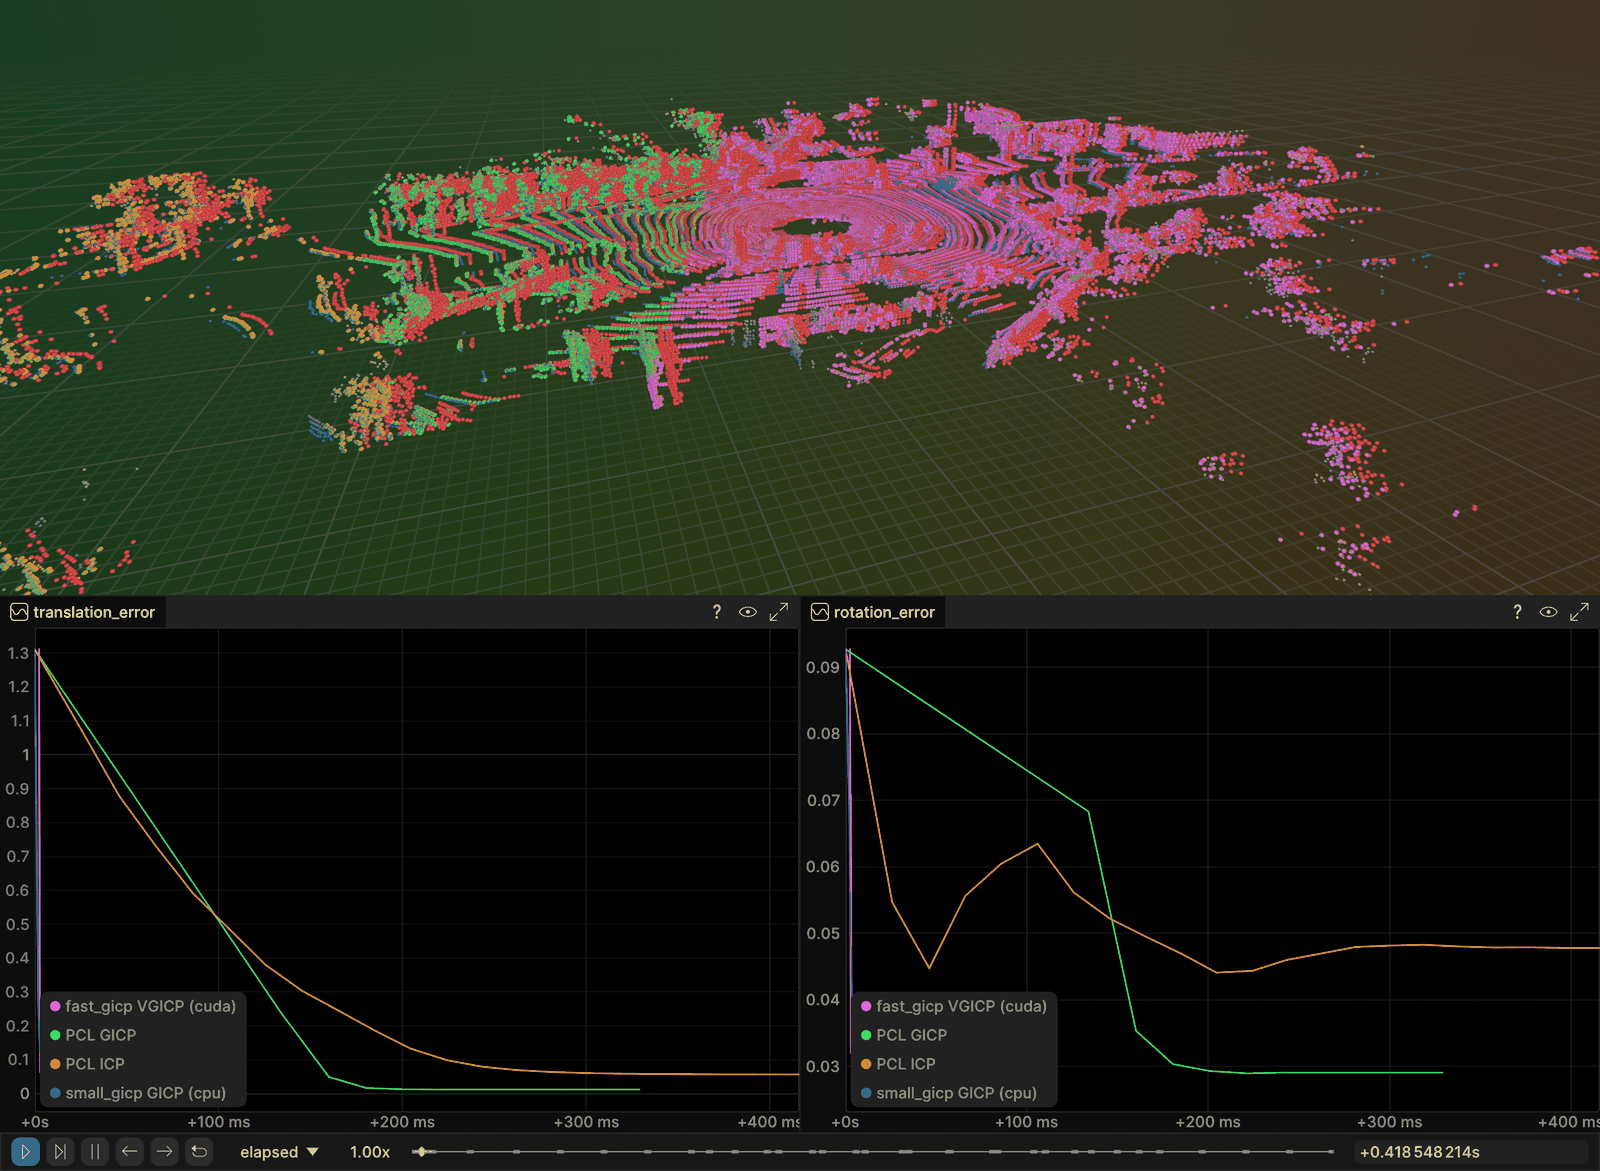
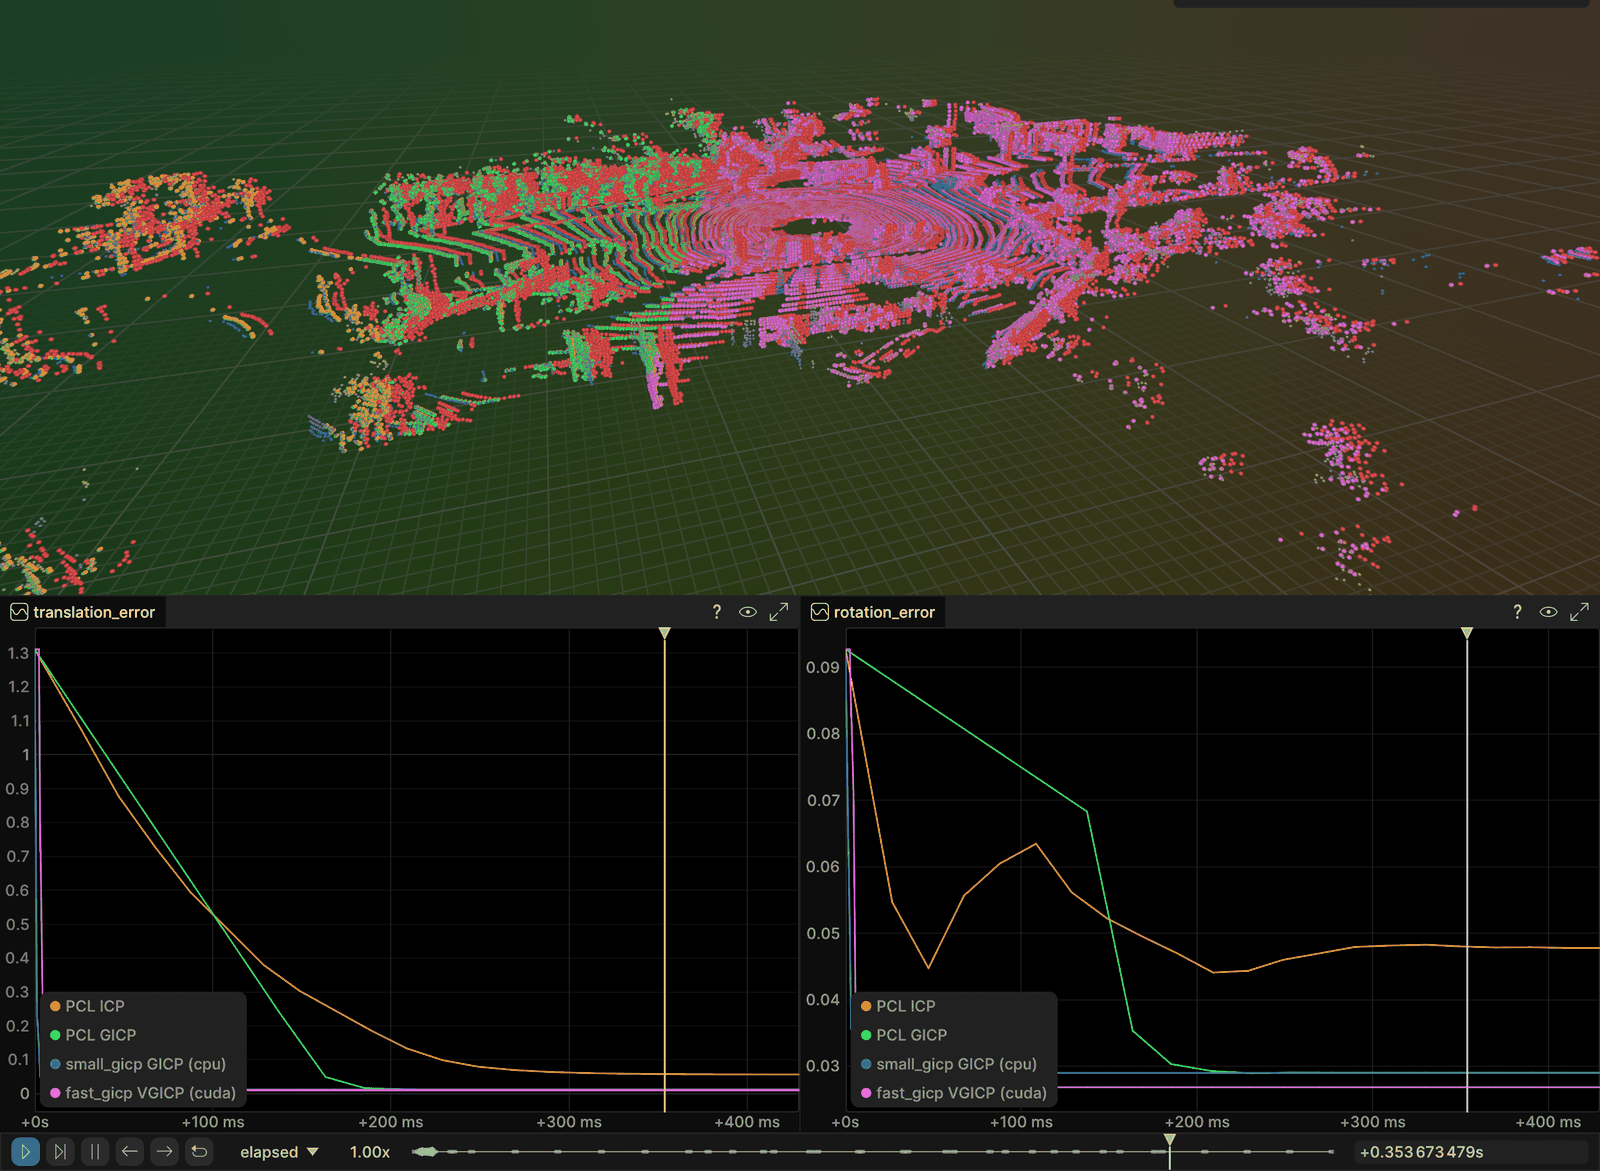
part2_ch03_07: put the error curves back in one graph per metric
The previous commit split each method into its own entity - translation_error/PCL_ICP
and so on - because the elapsed timeline seemed to require it: step k of each method
lands at a different millisecond, so the methods cannot share a time point the way
they share a step index. That broke the thing the graphs exist for. Rerun's default
layout makes a view per entity, so a viewer with no blueprint drew eight separate
plots with one series each, and comparing convergence across methods on a shared axis
- the entire purpose - became impossible.

My screenshots did not catch it because the blueprint written to capture them declares
two TimeSeriesViews whose origins gather the children back together. Testing the
capture path and never the default path is exactly how this got through; this fix was
checked with no blueprint at all.

Both metrics are back to a single entity carrying every method as a series. The
elapsed axis survives by merging all the methods' timestamps into one sorted set and
sampling every method at each of them, linearly interpolating between that method's
own samples. Interpolation rather than holding the last value is what keeps it honest:
each added point lies on a segment the method's samples already define, so the drawn
polyline is unchanged from plotting it alone, whereas holding would draw staircases no
method traced. Outside a trace's range the ends clamp, which is also right - before it
[…]

diff --git a/SLAM_zero_to_hero/part2_ch03_07/examples/demo_common.hpp b/SLAM_zero_to_hero/part2_ch03_07/examples/demo_common.hpp
@@ -19,7 +19,6 @@
 #pragma once
 
 #include <algorithm>
-#include <cctype>
 #include <chrono>
 #include <cmath>
 #include <filesystem>
@@ -728,38 +727,72 @@ public:
     void logErrorCurves(const std::vector<ErrorTrace>& traces) {
         if (!connected_ || traces.empty()) return;
 
+        std::vector<std::string> names;
+        std::vector<rerun::Color> colors;
+        std::size_t longest = 0;
         for (const auto& t : traces) {
-            if (t.steps.empty()) continue;
+            names.push_back(t.method);
+            colors.push_back(rerun::Color(t.r, t.g, t.b));
+            longest = std::max(longest, t.steps.size());
+        }
+        if (longest == 0) return;
 
-            // One entity per method, rather than one multi-valued scalar shared by
-            // all of them. The elapsed timeline forces it: step k of each method
-            // happens at a different millisecond, so they cannot be written at a
-            // common time point. They still share a plot, because the view's
-            // origin is the parent path and picks up every child series.
-            const std::string token = pathToken(t.method);
-            const std::string translation_path = "translation_error/" + token;
-            const std::string rotation_path = "rotation_error/" + token;
+        // One entity per plot carrying every method as a series, NOT an entity
+        // per method. Splitting them would put each method in its own graph in
+        // the viewer's default layout - which defeats the whole point, since the
+        // comparison needs a shared axis - and only looks right if the reader
+        // happens to load a blueprint that regroups them.
+        for (const char* plot : {"translation_error", "rotation_error"}) {
+            rec_->log_static(plot, rerun::SeriesLines()
+                                       .with_names(names)
+                                       .with_colors(colors)
+                                       .with_widths({1.5f}));
+        }
 
-            for (const auto& path : {translation_path, rotation_path}) {
-                rec_->log_static(path, rerun::SeriesLines()
-                                           .with_names({t.method})
-                                           .with_colors({rerun::Color(t.r, t.g, t.b)})
-                                           .with_widths({1.5f}));
+        // Against iteration count. A method that converged early holds its final
+        // value for the remaining steps, since that is where it ended up.
+        rec_->reset_time();
+        for (std::size_t step = 0; step < longest; ++step) {
+            std::vector<double> translation, rotation;
+            translation.reserve(traces.size());
+            rotation.reserve(traces.size());
+            for (const auto& t : traces) {
+                const PoseError e = t.steps.empty()
+                                        ? PoseError{0.0, 0.0}
+                                        : t.steps[std::min(step, t.steps.size() - 1)];
+                translation.push_back(e.translation_m);
+                rotation.push_back(e.rotation_deg);
             }
+            rec_->set_time_sequence("iteration", static_cast<int64_t>(step));
+            rec_->log("translation_error", rerun::Scalars(translation));
+            rec_->log("rotation_error", rerun::Scalars(rotation));
+        }
 
-            for (std::size_t step = 0; step < t.steps.size(); ++step) {
-                // Every sample goes on both timelines, so the viewer's timeline
-                // picker switches the whole plot between "how many iterations"
-                // and "how long" without anything being logged twice.
-                rec_->set_time_sequence("iteration", static_cast<int64_t>(step));
-                if (step < t.elapsed_ms.size()) {
-                    rec_->set_time_duration_secs("elapsed",
-                                                 t.elapsed_ms[step] / 1000.0);
-                }
-                rec_->log(translation_path,
-                          rerun::Scalars(t.steps[step].translation_m));
-                rec_->log(rotation_path, rerun::Scalars(t.steps[step].rotation_deg));
+        // Against wall-clock time. Step k of each method lands at a different
+        // millisecond, so a shared entity needs a shared set of time points:
+        // merge every method's timestamps and sample all of them at each one.
+        std::vector<double> times;
+        for (const auto& t : traces) {
+            times.insert(times.end(), t.elapsed_ms.begin(), t.elapsed_ms.end());
+        }
+        std::sort(times.begin(), times.end());
+        times.erase(std::unique(times.begin(), times.end()), times.end());
+
+        // reset_time() so these rows carry only "elapsed" and do not also land on
+        // the iteration timeline at whatever index it was left at.
+        rec_->reset_time();
+        for (double ms : times) {
+            std::vector<double> translation, rotation;
+            translation.reserve(traces.size());
+            rotation.reserve(traces.size());
+            for (const auto& t : traces) {
+                const PoseError e = interpolateAt(t, ms);
+                translation.push_back(e.translation_m);
+                rotation.push_back(e.rotation_deg);
             }
+            rec_->set_time_duration_secs("elapsed", ms / 1000.0);
+            rec_->log("translation_error", rerun::Scalars(translation));
+            rec_->log("rotation_error", rerun::Scalars(rotation));
         }
     }
 
@@ -795,14 +828,34 @@ public:
     }
 
 private:
-    /// Method names carry spaces and parentheses; entity paths should not
-    static std::string pathToken(const std::string& name) {
-        std::string token;
-        token.reserve(name.size());
-        for (char c : name) {
-            token.push_back(std::isalnum(static_cast<unsigned char>(c)) ? c : '_');
-        }
-        return token;
+    /// A trace's error at an arbitrary elapsed time, linearly interpolated
+    /// between its own samples
+    ///
+    /// Interpolating rather than holding the previous value is what keeps the
+    /// drawn curve honest: every extra point lands exactly on a segment the
+    /// method's own samples already define, so sampling all methods at a merged
+    /// set of times draws the same polyline as plotting each one alone. Holding
+    /// instead would introduce staircases that no method actually traced.
+    ///
+    /// Outside a trace's range the endpoints are clamped, which is also right:
+    /// before it started it was at its initial guess, and once it converged and
+    /// stopped it stayed where it finished.
+    static PoseError interpolateAt(const ErrorTrace& trace, double ms) {
+        const std::size_t n = std::min(trace.steps.size(), trace.elapsed_ms.size());
+        if (n == 0) return {0.0, 0.0};
+        if (ms <= trace.elapsed_ms.front()) return trace.steps.front();
+        if (ms >= trace.elapsed_ms[n - 1]) return trace.steps[n - 1];
+
+        const auto it = std::lower_bound(trace.elapsed_ms.begin(),
+                                         trace.elapsed_ms.begin() + n, ms);
+        const std::size_t hi = static_cast<std::size_t>(it - trace.elapsed_ms.begin());
+        const std::size_t lo = hi - 1;
+        const double span = trace.elapsed_ms[hi] - trace.elapsed_ms[lo];
+        const double f = span > 0.0 ? (ms - trace.elapsed_ms[lo]) / span : 0.0;
+        return {trace.steps[lo].rotation_deg +
+                    f * (trace.steps[hi].rotation_deg - trace.steps[lo].rotation_deg),
+                trace.steps[lo].translation_m +
+                    f * (trace.steps[hi].translation_m - trace.steps[lo].translation_m)};
     }
 
     std::optional<rerun::RecordingStream> rec_;
